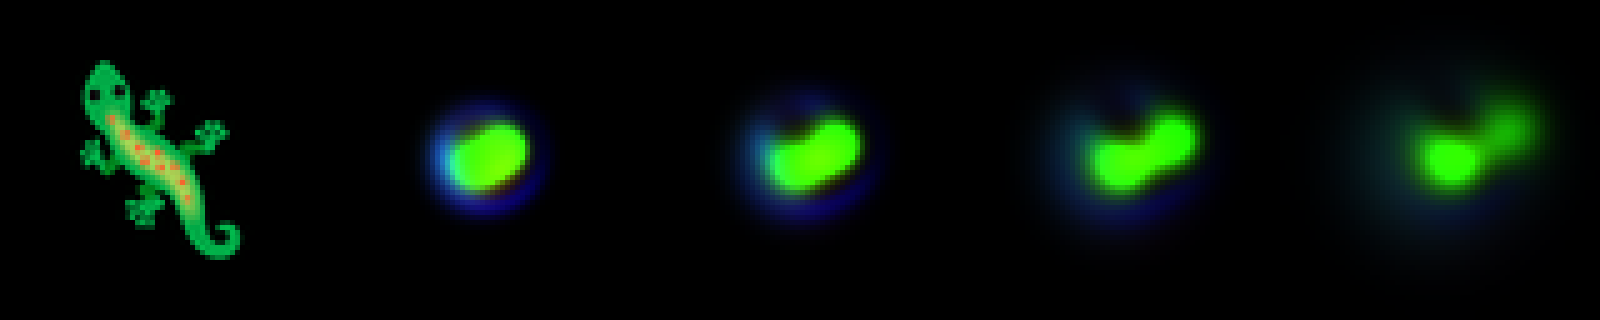
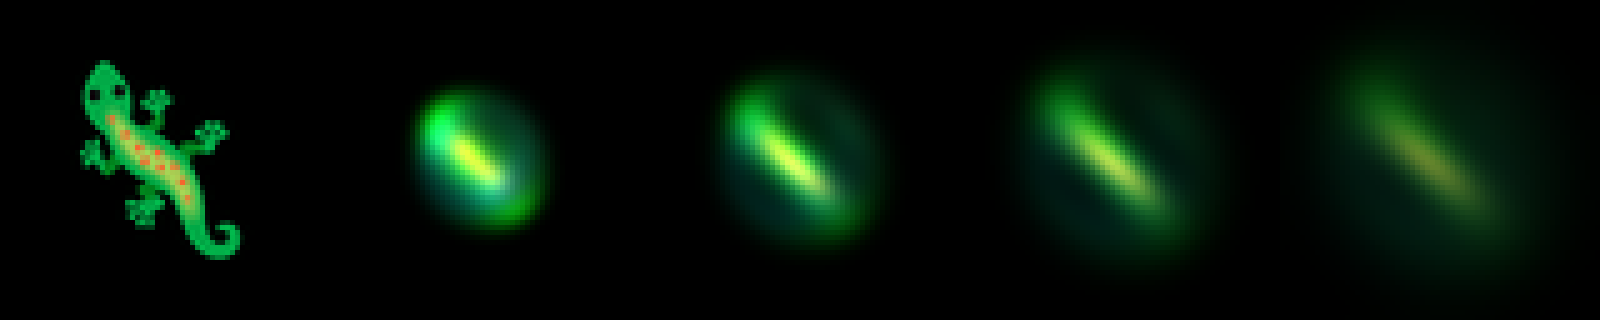
Three ways to ask for more detail
polar2  C 6,  6 lobes to order 2,  189 numbers, linear    the persistence fix alone
polar3  C 12, 8 lobes to order 3,  543 numbers, linear    more memory, finer kernels
rung1   C 12, 8 lobes to order 3, 1743 numbers, + network breaks the linear ceiling

The first two need no change to index.html and export presets it loads today.
The third does not: FS_AFF computes a matrix multiply, and rung 1 replaces
that with W2 . tanh(W1 . U + b1) per cell -- an NCA's update MLP, in the one
place the shipped law was linear. Its preset.json is written with a note
saying so rather than emitting something that would quietly load as a
different world.

step() now takes either a matrix or a callable there, so the linear path is
byte-identical and parity still passes. MaCE is untouched in all three, so
mass is still conserved exactly whatever mixes the fields.

One number already worth noting: at C 12 the linear model starts at loss
0.107 and the network at 0.016, before either has taken a step. Bounding the
affinity through a tanh is apparently worth more at initialisation than every
kernel parameter put together.

Claude-Session: https://claude.ai/code/session_01WKrMnD7YksARi9mdYUD5iv

diff --git a/train/train.py b/train/train.py
@@ -52,6 +52,38 @@ HORIZONS = [16, 32, 64, 128]   # rollout lengths the checkpoint reports
 
 # ------------------------------------------------------------------ the model
 
+class Mix(torch.nn.Module):
+    """Rung 1: a hidden layer where the interaction matrix was.
+
+    The shipped law computes the affinity as `M . U` -- one matrix multiply per
+    cell, linear in the convolved fields, and that linearity is the capacity
+    ceiling, not the kernels. This replaces it with `W2 . tanh(W1 . U + b1)`,
+    applied per cell, which is exactly the shape of an NCA's update MLP.
+
+    It is 1x1 convolution, so it costs almost nothing next to the kernels, and
+    it leaves MaCE alone -- mass is still conserved exactly. What it does cost
+    is portability: index.html's FS_AFF computes a matrix multiply, so a rung 1
+    world needs the shader change of docs/nca-experiment.md before it will load.
+    """
+
+    def __init__(self, C, hidden, seed=0):
+        super().__init__()
+        g = torch.Generator().manual_seed(seed + 2)
+        self.w1 = torch.nn.Parameter(torch.randn(hidden, C, generator=g) / C ** 0.5)
+        self.b1 = torch.nn.Parameter(torch.zeros(hidden))
+        self.w2 = torch.nn.Parameter(torch.randn(C, hidden, generator=g) / hidden ** 0.5)
+
+    def forward(self, U):
+        ax1 = "hc,chw->hhw" if U.ndim == 3 else "hc,bchw->bhhw"
+        ax2 = "ch,hhw->chw" if U.ndim == 3 else "ch,bhhw->bchw"
+        # einsum cannot reuse a subscript for two different sizes; do it as a
+        # 1x1 convolution instead, which is what a per-cell dense layer is.
+        v = torch.nn.functional.conv2d(U if U.ndim == 4 else U[None],
+                                       self.w1[:, :, None, None], self.b1)
+        v = torch.nn.functional.conv2d(torch.tanh(v), self.w2[:, :, None, None])
+        return v if U.ndim == 4 else v[0]
+
+
 class World(torch.nn.Module):
     """Everything trainable: the kernels, the matrix, and the three globals.
 
@@ -61,10 +93,12 @@ class World(torch.nn.Module):
     where the gradient it is following stops meaning anything.
     """
 
-    def __init__(self, C, orders, KR, seed=0):
+    def __init__(self, C, orders, KR, seed=0, hidden=0):
         super().__init__()
         self.kern = fl.PolarKernels(C, orders=orders, KR=KR, seed=seed)
         g = torch.Generator().manual_seed(seed + 1)
+        self.hidden = hidden
+        self.mix = Mix(C, hidden, seed) if hidden else None
         self.mat = torch.nn.Parameter(torch.randn(C, C, generator=g) * 0.5)
         self.log_force = torch.nn.Parameter(torch.tensor(math.log(12.0)))
         self.log_repel = torch.nn.Parameter(torch.tensor(math.log(1.0)))
@@ -78,8 +112,9 @@ class World(torch.nn.Module):
     def rollout(self, rho, steps, kern=None):
         kern = self.kern() if kern is None else kern
         f, r, b = self.globals()
+        mix = self.mix if self.hidden else self.mat
         for _ in range(steps):
-            rho = fl.step(rho, kern, self.mat, f, r, b)
+            rho = fl.step(rho, kern, mix, f, r, b)
         return rho
 
     def scalars(self):
@@ -178,6 +213,8 @@ def main():
     ap.add_argument("--reseed-every", type=int, default=4,
                     help="iterations between sending a pool state back to the seed")
     ap.add_argument("--lr", type=float, default=3e-3)
+    ap.add_argument("--hidden", type=int, default=0,
+                    help="rung 1: hidden width of the per-cell network; 0 keeps the matrix")
     ap.add_argument("--lam-penalty", type=float, default=0.02,
                     help="weight on the measured divergence rate")
     ap.add_argument("--ckpt", type=int, default=50)
@@ -199,7 +236,7 @@ def main():
     target = torch.tensor(target_np, dtype=torch.float32)
     seed = torch.tensor(seed_np, dtype=torch.float32)
 
-    model = World(a.channels, orders, a.kr, seed=a.seed)
+    model = World(a.channels, orders, a.kr, seed=a.seed, hidden=a.hidden)
     opt = torch.optim.Adam(model.parameters(), a.lr)
     pool = seed[None].repeat(a.pool, 1, 1, 1).clone()
     start_it = 0
@@ -270,8 +307,15 @@ def main():
                 csv.writer(fh).writerow([it, f"{loss.item():.6f}", f"{best:.6f}",
                                          f"{lam:.3f}", f"{f:.2f}", f"{b:.3f}",
                                          *[f"{v:.6f}" for v in hz], f"{secs:.0f}"])
-            json.dump(model.to_config(a.channels, a.grid),
-                      open(os.path.join(run, "preset.json"), "w"))
+            # a rung 1 world is not expressible as a preset: index.html's
+            # FS_AFF is a matrix multiply. Write the kernels anyway -- they are
+            # still legal -- and say so, rather than emitting a preset that
+            # silently loads as something else.
+            cfg = model.to_config(a.channels, a.grid)
+            if a.hidden:
+                cfg["_note"] = ("rung 1: affinity is a per-cell network, not this "
+                                "matrix. Needs the FS_AFF change to load faithfully.")
+            json.dump(cfg, open(os.path.join(run, "preset.json"), "w"))
             torch.save({"model": model.state_dict(), "opt": opt.state_dict(),
                         "pool": pool, "iter": it}, ck)
             save_progress(os.path.join(run, "progress.png"), target, model, seed,

diff --git a/train/fieldlife.py b/train/fieldlife.py
@@ -112,8 +112,17 @@ def step(rho, kern, mat, force, repel, beta):
     U = corr2d(rho, kern)
     N = corr2d(rho, crowd_gaussian(KR, kern, C, rho.dtype, rho.device))
 
-    ax = "cd,dhw->chw" if rho.ndim == 3 else "cd,bdhw->bchw"
-    A = force * torch.einsum(ax, mat, U) - repel * N.sum(-3, keepdim=True)
+    # `mat` may be a plain C x C matrix -- the law as it ships, linear in the
+    # convolved fields -- or a callable, which is rung 1 of the design doc: the
+    # matrix multiply becomes a small per-cell network, which is structurally
+    # what an NCA's update MLP is. Everything downstream is untouched, so MaCE
+    # still conserves mass exactly either way.
+    if callable(mat):
+        mixed = mat(U)
+    else:
+        ax = "cd,dhw->chw" if rho.ndim == 3 else "cd,bdhw->bchw"
+        mixed = torch.einsum(ax, mat, U)
+    A = force * mixed - repel * N.sum(-3, keepdim=True)
 
     # +-20, not +-60: share is rho/Z in float32, and a wider span flushes a cold
     # cell's share to zero, which would delete mass. See FS_EXPA.
